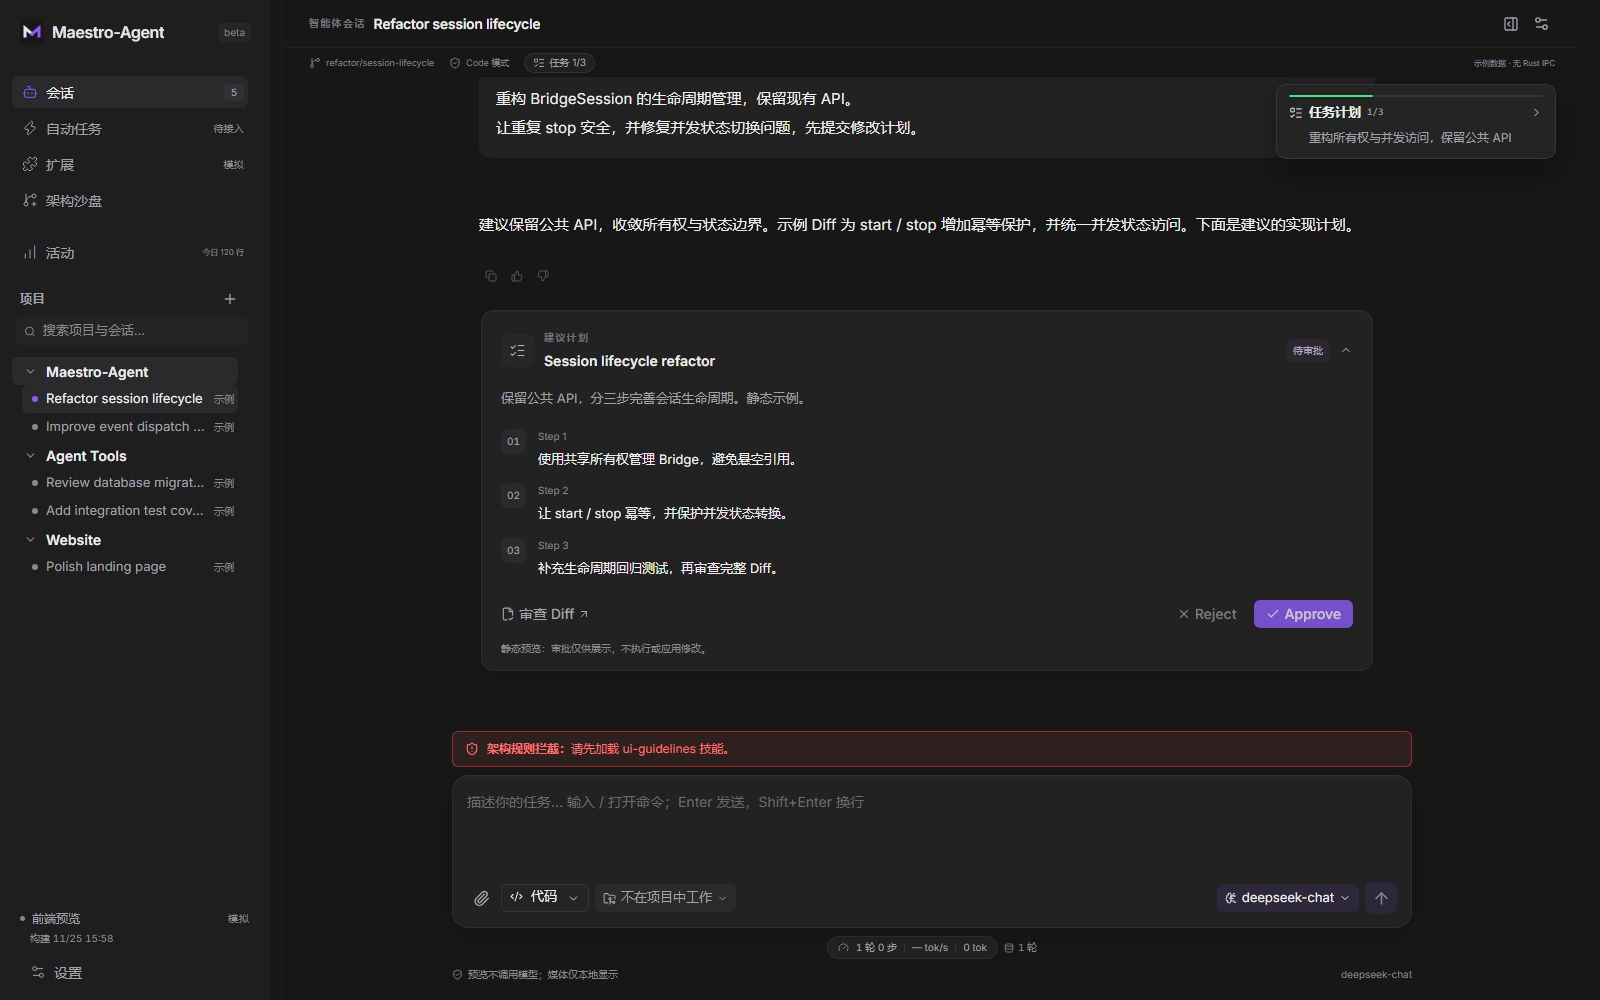
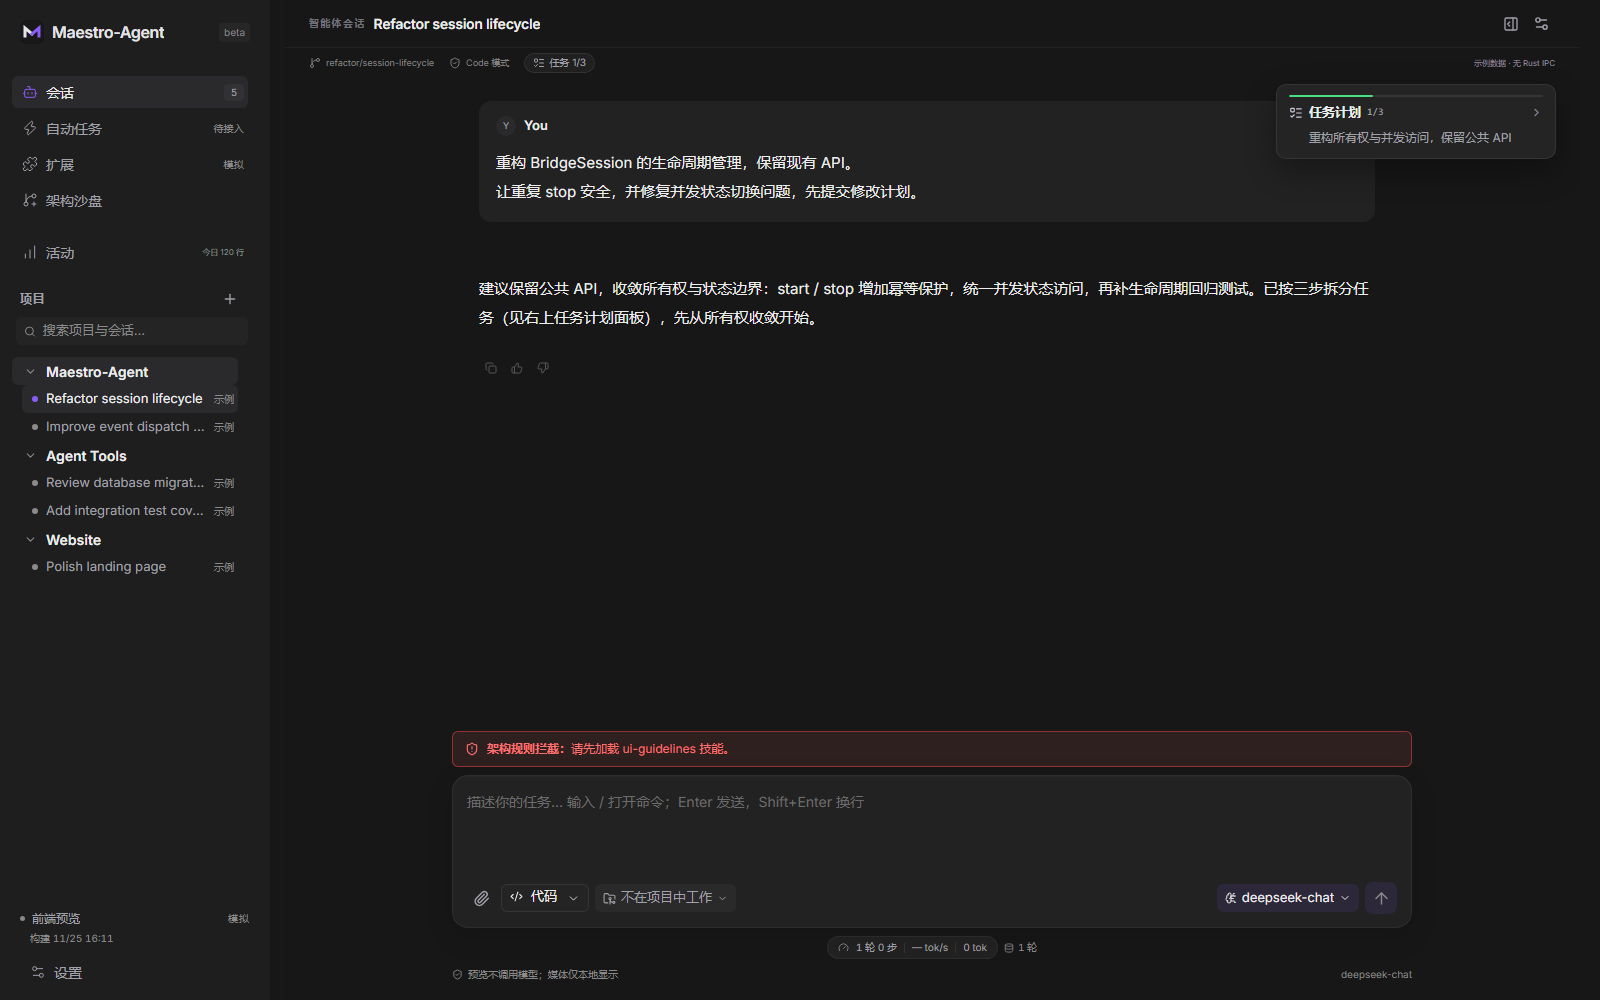
docs: fix README gallery — unignore feature PNGs, drop stale plan card
- .gitignore: /artifacts/ui/* exceptions were per-name (workbench/explorer
  only), so the three new feature shots were silently ignored and 404
  on the remote. Replace with a maestro-*.png wildcard.
- preview fixtures: the mock 'proposed plan' approval card renders a
  legacy path — publish_plan is only reachable from tests now; live
  plans flow through update_plan into the task-plan panel. Clear the
  session plans and point the run output at the panel instead.
- Re-captured maestro-workbench.png against the updated fixture.

diff --git a/src/preview/fixtures.ts b/src/preview/fixtures.ts
@@ -94,7 +94,7 @@ export const previewPlan: PlanCard = {
 const mainRun: RunView = {
   id: 1001, sessionId: 101, mode: 'code', status: 'completed', error: null,
   prompt: '重构 BridgeSession 的生命周期管理，保留现有 API。\n让重复 stop 安全，并修复并发状态切换问题，先提交修改计划。',
-  output: '建议保留公共 API，收敛所有权与状态边界。示例 Diff 为 start / stop 增加幂等保护，并统一并发状态访问。下面是建议的实现计划。',
+  output: '建议保留公共 API，收敛所有权与状态边界：start / stop 增加幂等保护，统一并发状态访问，再补生命周期回归测试。已按三步拆分任务（见右上任务计划面板），先从所有权收敛开始。',
 };
 
 export const previewSnapshot: Snapshot = { ready: false, mode: 'code', activeRun: null, lastRun: null, sequence: 0 };
@@ -121,7 +121,7 @@ function exampleSession(id: number, title: string, projectId: number): SessionDe
 
 export const previewProjects: PreviewProject[] = [
   { id: '1', name: 'Maestro-Agent', activity: sampleActivity, today: { changedLines: 120, completedPlans: 3 }, sessions: [
-    { session: { id: 101, title: 'Refactor session lifecycle', updatedAt: 1, runCount: 1, projectId: 1, archived: false }, runs: [mainRun], plans: [previewPlan] },
+    { session: { id: 101, title: 'Refactor session lifecycle', updatedAt: 1, runCount: 1, projectId: 1, archived: false }, runs: [mainRun], plans: [] },
     exampleSession(102, 'Improve event dispatch pipeline', 1),
   ] },
   { id: '2', name: 'Agent Tools', activity: sampleActivity, today: { changedLines: 37, completedPlans: 1 }, sessions: [
